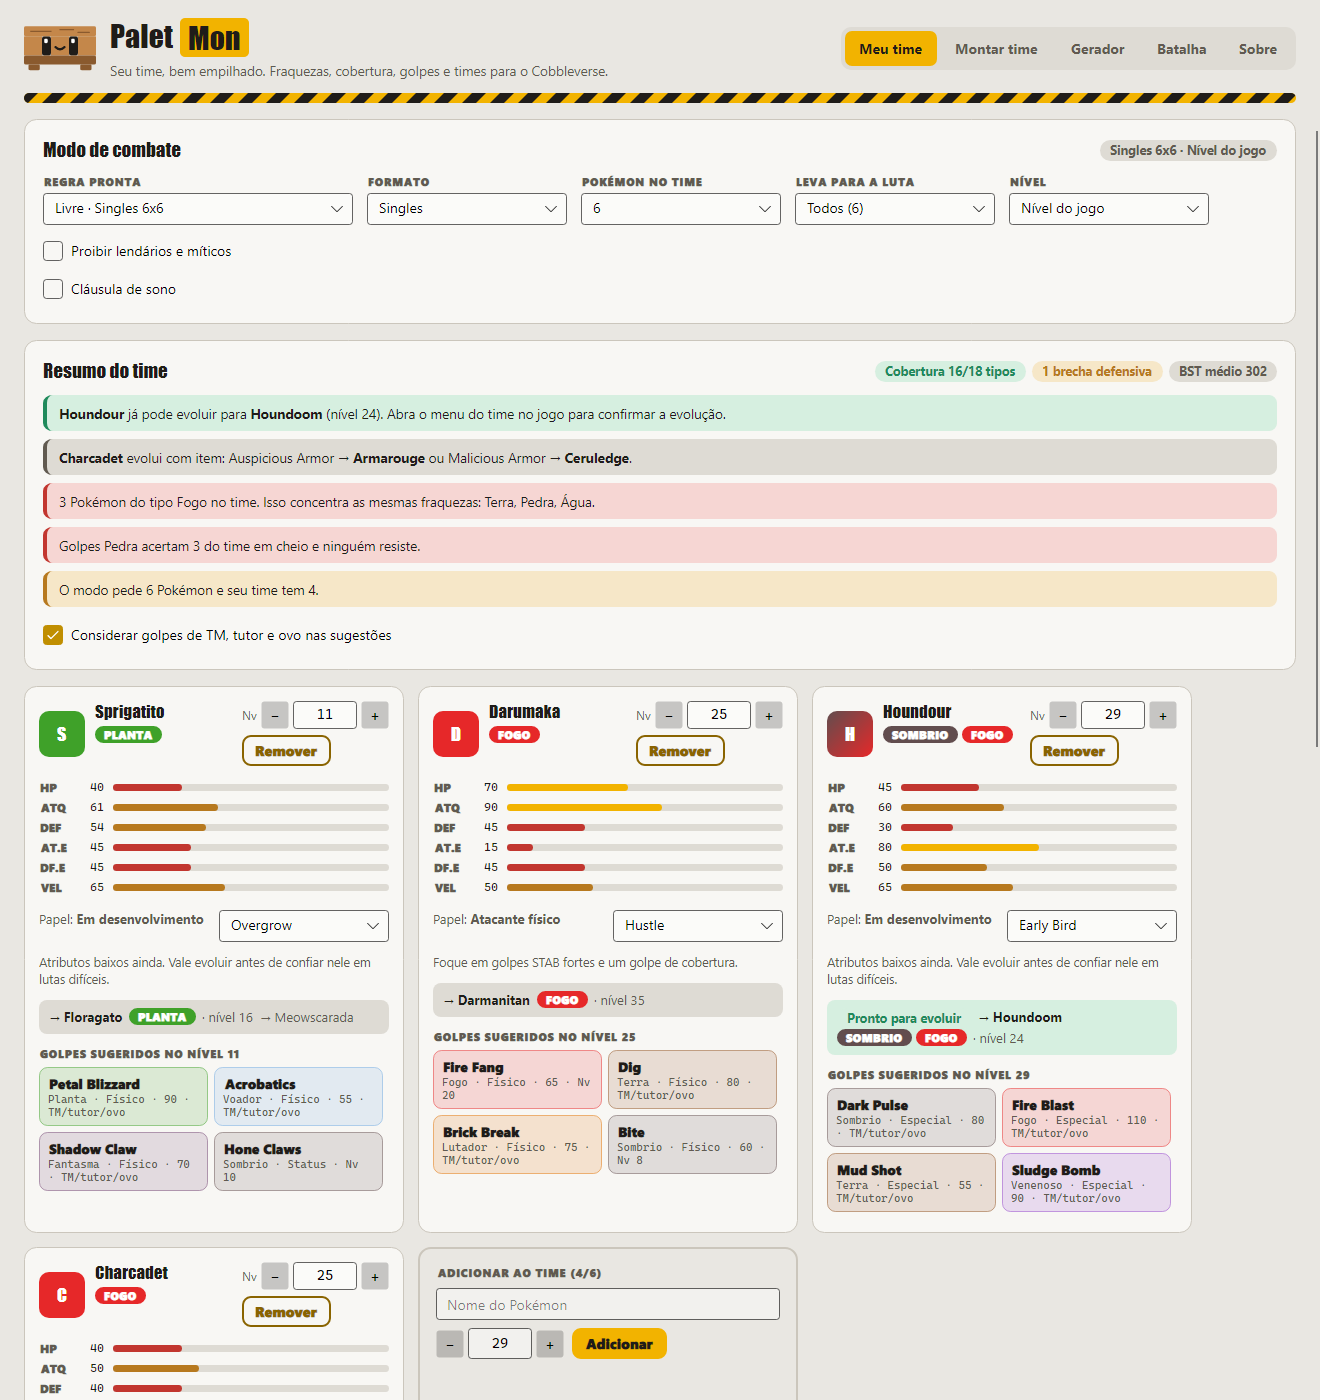
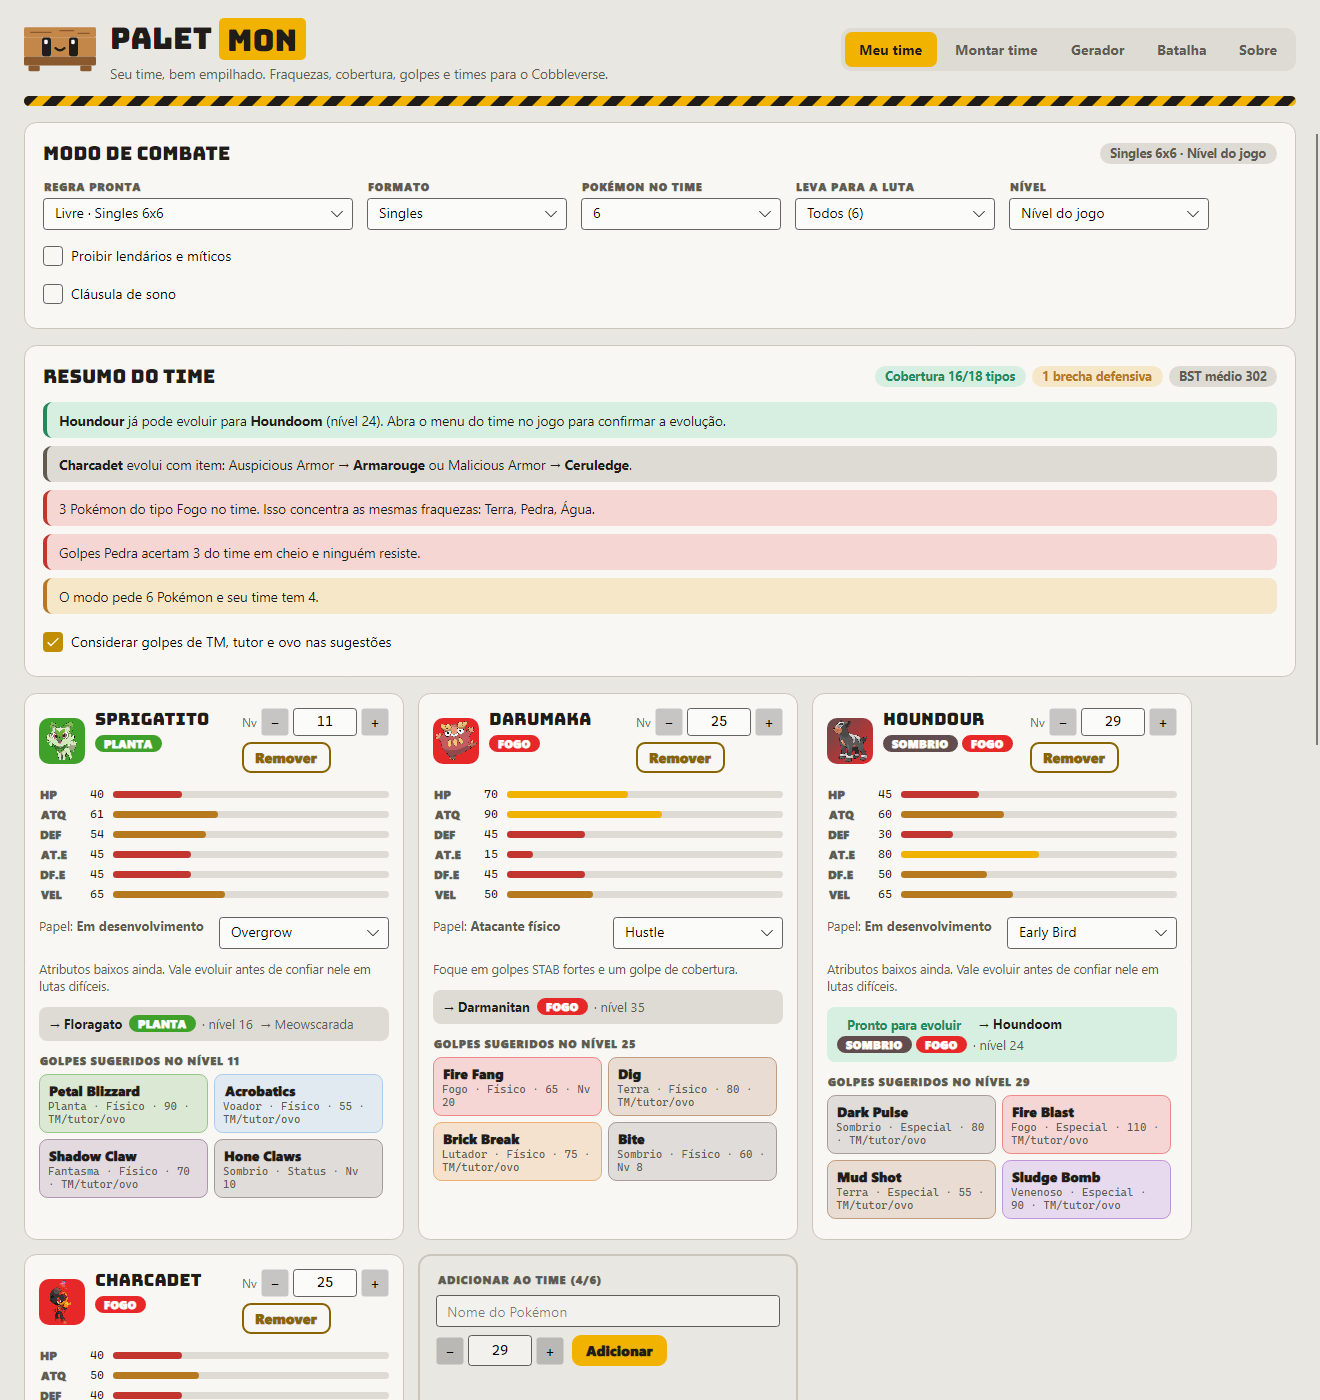
Android no .NET 10, APK na release e documentação

diff --git a/README.md b/README.md
@@ -2,21 +2,29 @@
 
 Seu time, bem empilhado. Um estrategista de time para o **Cobbleverse**, o modpack de Pokémon para Minecraft.
 
-![Tela do Palet Mon](docs/tela.png)
+<img src="docs/celular.png" width="260" align="right" alt="Palet Mon no celular">
+
+![Palet Mon no Windows](docs/tela.png)
 
 ## Baixar
 
-**[Baixar o instalador para Windows](https://github.com/carlosgguilherme/palet-mon/releases/latest/download/Palet-Mon-Instalador.exe)**
+**[Windows: baixar o instalador](https://github.com/carlosgguilherme/palet-mon/releases/latest/download/Palet-Mon-Instalador.exe)**
 
 Abra o arquivo e pronto. Não precisa de permissão de administrador: o app abre sozinho e cria atalhos na Área de Trabalho e no Menu Iniciar.
 
-O código-fonte de cada versão fica separado na página de [releases](https://github.com/carlosgguilherme/palet-mon/releases), em **Source code**.
-
 O Windows pode mostrar o aviso "O Windows protegeu o computador" porque o instalador ainda não tem certificado digital. Clique em **Mais informações** e depois em **Executar assim mesmo**.
+
+**[Android: baixar o APK](https://github.com/carlosgguilherme/palet-mon/releases/latest/download/Palet-Mon-Android.apk)**
+
+Abra o arquivo no celular. Na primeira vez, o Android pede para permitir a instalação vinda do navegador ou do gerenciador de arquivos.
+
+O código-fonte de cada versão fica separado na página de [releases](https://github.com/carlosgguilherme/palet-mon/releases), em **Source code**.
 
 ## Atualizações
 
-O app procura novidades ao abrir e avisa no topo da janela. Para procurar na hora, abra a aba **Sobre** e clique em **Verificar atualizações**. Ele baixa, instala e reinicia sozinho, e seu time continua salvo.
+Sempre que abre, o app procura uma versão nova no GitHub e pergunta se você quer atualizar. Isso precisa de internet. Para procurar na hora, abra a aba **Sobre** e toque em **Verificar atualizações**. Seu time continua salvo.
+
+As imagens dos Pokémon vêm da PokéAPI: são baixadas na primeira vez e ficam guardadas no aparelho. Sem internet, o app funciona normalmente e mostra as iniciais.
 
 ## O que ele faz
 
@@ -35,21 +43,28 @@ dotnet tool restore
 dotnet run --project PaletMon
 ```
 
-- `PaletMon/Logic`: tipos, golpes, gerador, modos de combate e atualizador.
-- `PaletMon/UI`: telas, feitas com Avalonia.
-- `PaletMon/Assets/dex.json`: dados da PokéAPI.
-- `PaletMon.Snap`: tira fotos das telas sem abrir janela.
+- `PaletMon.Core`: dados, lógica e telas, usados pelos dois apps.
+  - `Logic`: tipos, golpes, gerador, modos de combate e fluxo de atualização.
+  - `UI`: `MainView` é a tela de PC e `MobileView` é a de celular.
+  - `Assets/dex.json`: dados da PokéAPI.
+- `PaletMon`: app de PC, com instalador e atualização pelo Velopack.
+- `PaletMon.Android`: app de Android, compilado pelo GitHub Actions.
+- `PaletMon.Snap`: tira fotos das telas sem abrir janela. Use `--phone` para as telas de celular.
 
 ### Lançar uma versão nova
 
-Crie uma tag. O GitHub Actions gera o instalador, a atualização e a release:
+Crie uma tag. O GitHub Actions gera o instalador, o APK, a atualização e a release:
 
 ```powershell
 git tag v2.2.0
 git push origin v2.2.0
 ```
 
-Quem já tem o app instalado recebe a versão nova sozinho. Para gerar o instalador no seu PC, sem publicar, rode `.\publicar.ps1 -Versao 2.2.0`.
+Quem já tem o app recebe o aviso da versão nova. Para gerar o instalador no seu PC, sem publicar, rode `.\publicar.ps1 -Versao 2.2.0`.
+
+### Chave do Android
+
+O APK precisa ser sempre assinado com a mesma chave, senão quem já tem o app não consegue atualizar. Ela fica nos segredos do repositório (`ANDROID_KEYSTORE_B64` e `ANDROID_KEYSTORE_PASSWORD`) e na pasta `chaves/`, que não vai para o Git. Guarde uma cópia em lugar seguro.
 
 ### Assinatura digital
 

diff --git a/.github/release-notes.md b/.github/release-notes.md
@@ -1,6 +1,6 @@
-## Baixar o app
+## Baixar para Windows
 
-**[Baixar o instalador do Palet Mon](https://github.com/carlosgguilherme/palet-mon/releases/latest/download/Palet-Mon-Instalador.exe)** (Windows, cerca de 50 MB)
+**[Baixar o instalador do Palet Mon](https://github.com/carlosgguilherme/palet-mon/releases/latest/download/Palet-Mon-Instalador.exe)** (cerca de 50 MB)
 
 Abra o arquivo e pronto: o app instala sozinho, sem pedir permissão de administrador, e cria atalhos na Área de Trabalho e no Menu Iniciar.
 
@@ -8,8 +8,16 @@ Se o Windows mostrar "O Windows protegeu o computador", clique em **Mais informa
 
 Depois de instalado, o app se atualiza sozinho. Você também pode procurar novidades na aba **Sobre**, no botão **Verificar atualizações**.
 
+## Baixar para Android
+
+**[Baixar o Palet Mon para Android](https://github.com/carlosgguilherme/palet-mon/releases/latest/download/Palet-Mon-Android.apk)**
+
+Abra o arquivo no celular. Na primeira vez, o Android pede para permitir a instalação vinda do navegador ou do gerenciador de arquivos. Toque em **Configurações**, ative **Permitir desta fonte** e volte para instalar.
+
+Sempre que você abrir o app, ele procura uma versão nova e pergunta se quer atualizar. Isso precisa de internet.
+
 ## Código-fonte
 
 Para ver ou modificar o código, baixe **Source code (zip)** ou **Source code (tar.gz)** em Assets, logo abaixo.
 
-Os arquivos `.nupkg`, `RELEASES` e `releases.win.json` são usados pelo atualizador do app. Você não precisa baixá-los.
+Os arquivos `.nupkg`, `RELEASES` e `releases.win.json` são usados pelo atualizador do app de Windows. Você não precisa baixá-los.
